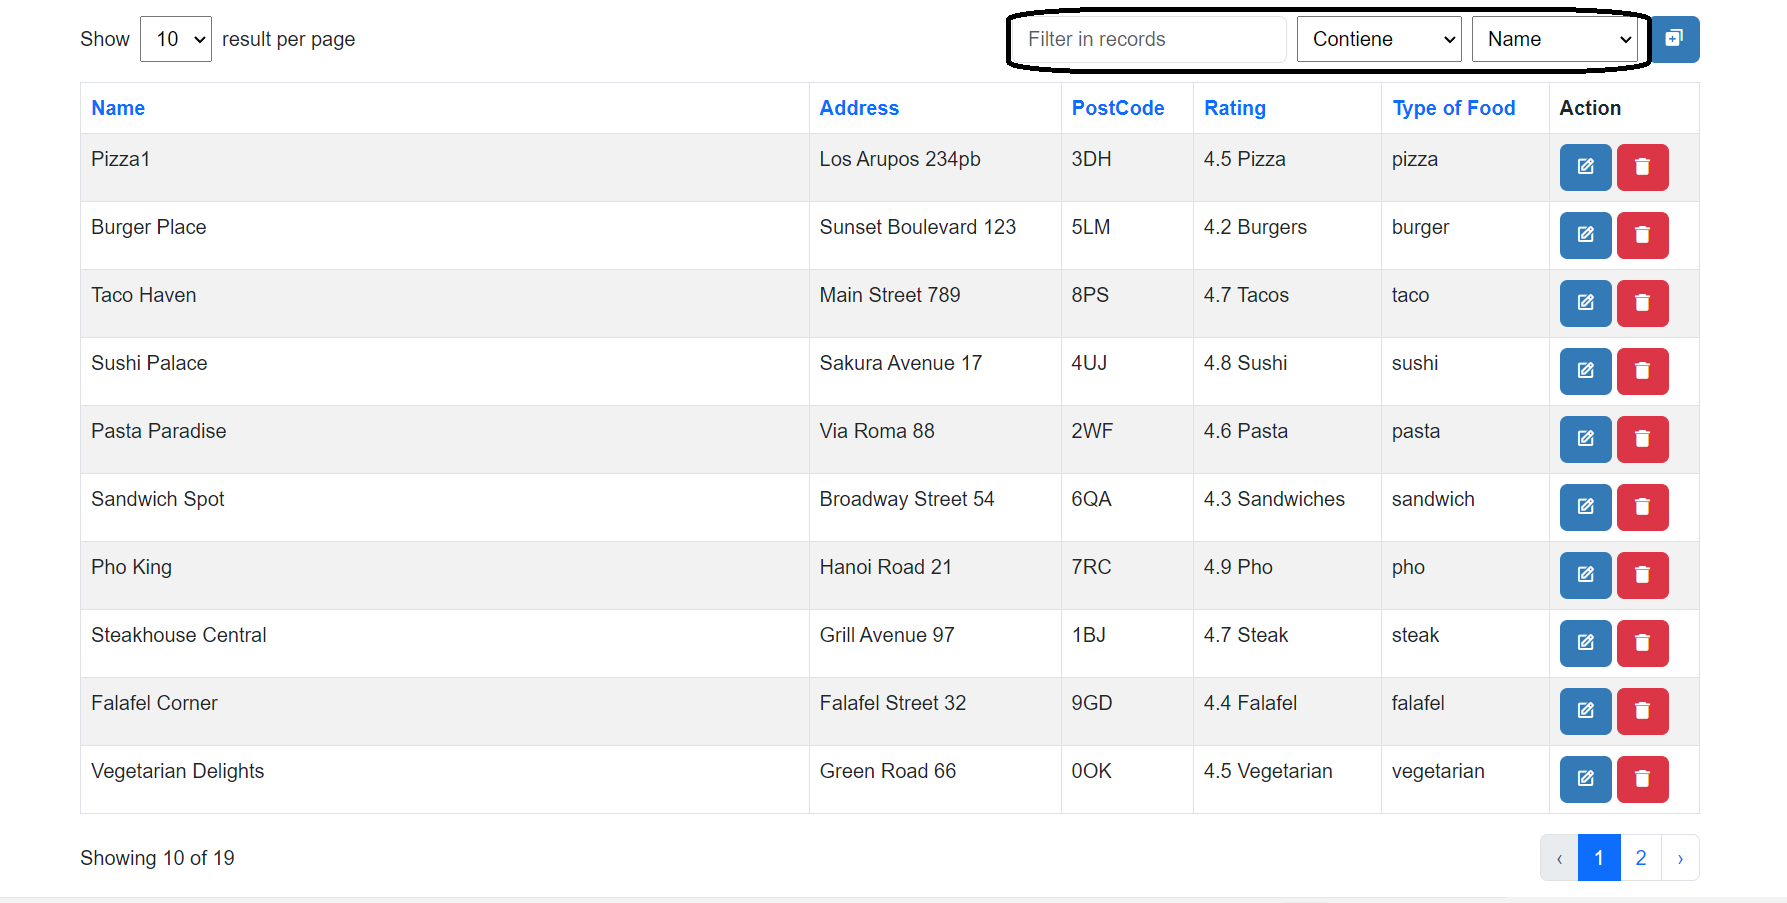
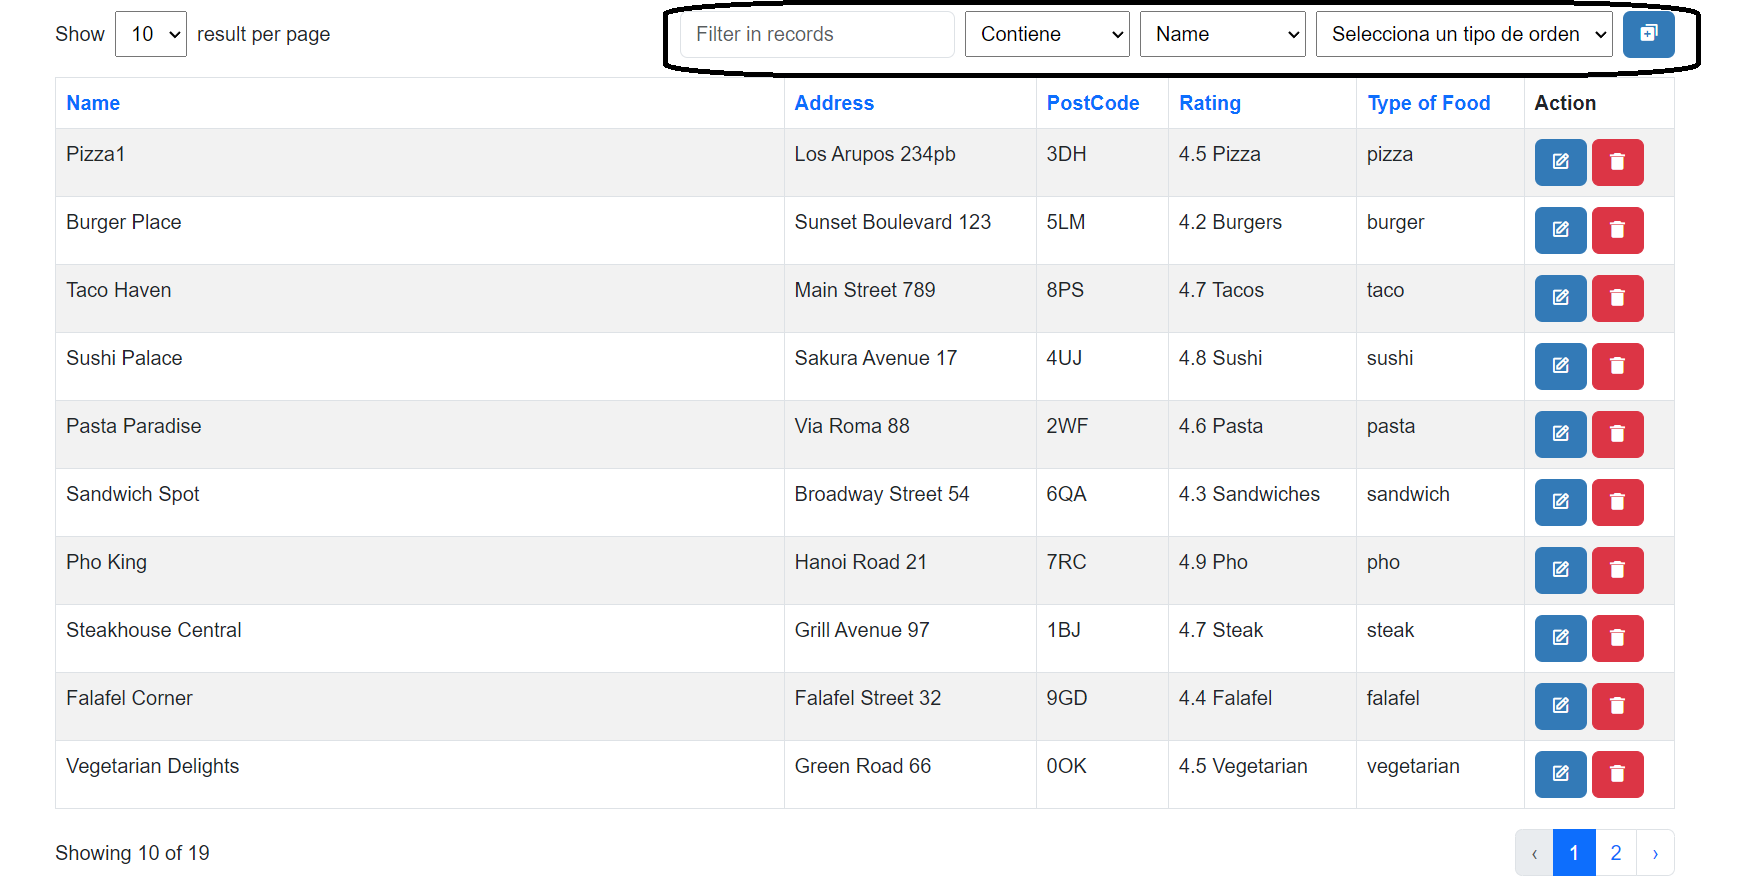
Final readMe

diff --git a/README.md b/README.md
@@ -49,7 +49,7 @@ Para borrar un registro, haz clic en el botón rojo debajo de la columna "Action
 
 - Filtrar
 
-Para filtrar, selecciona los parámetros de filtrado y escribe lo que estás buscando. Este proceso te permitirá buscar información específica dentro de la aplicación.
+Para filtrar, selecciona los parámetros de filtrado y escribe lo que estás buscando. Este proceso te permitirá buscar información específica dentro de la aplicación. Igualmente se podra ordenar los registros.
 ![ Filtrar](/public/Images/filterResults.png)
 
 - Paginación y numero de resultado
